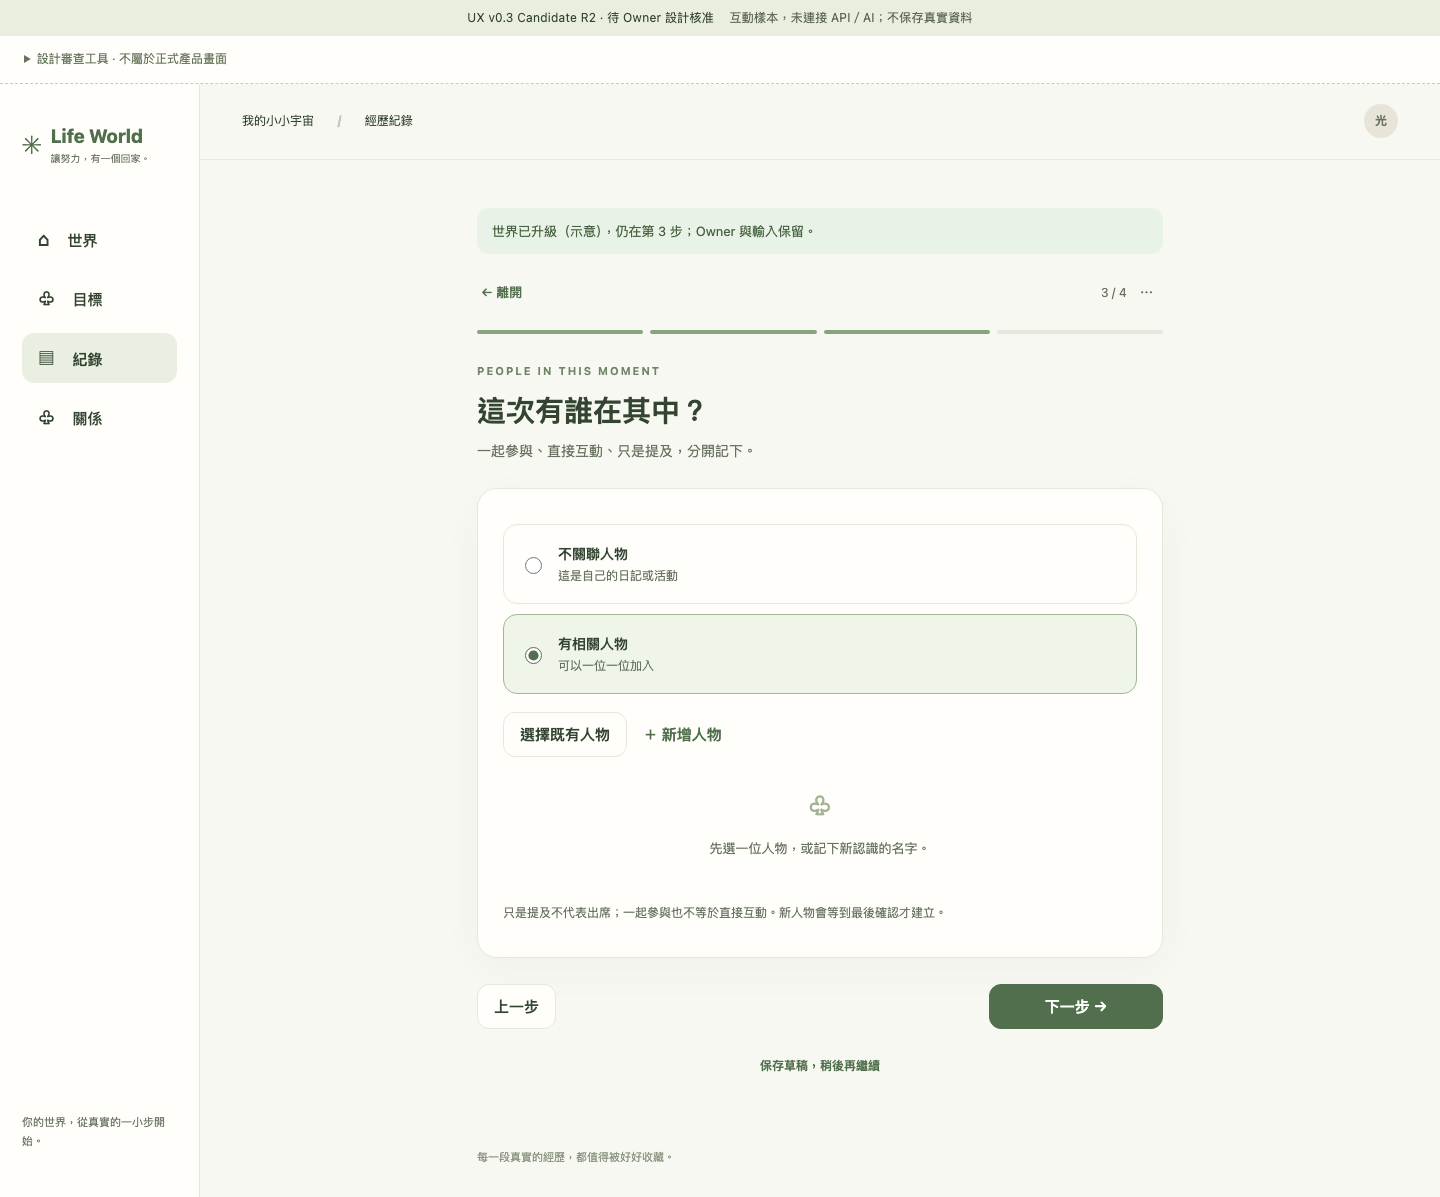
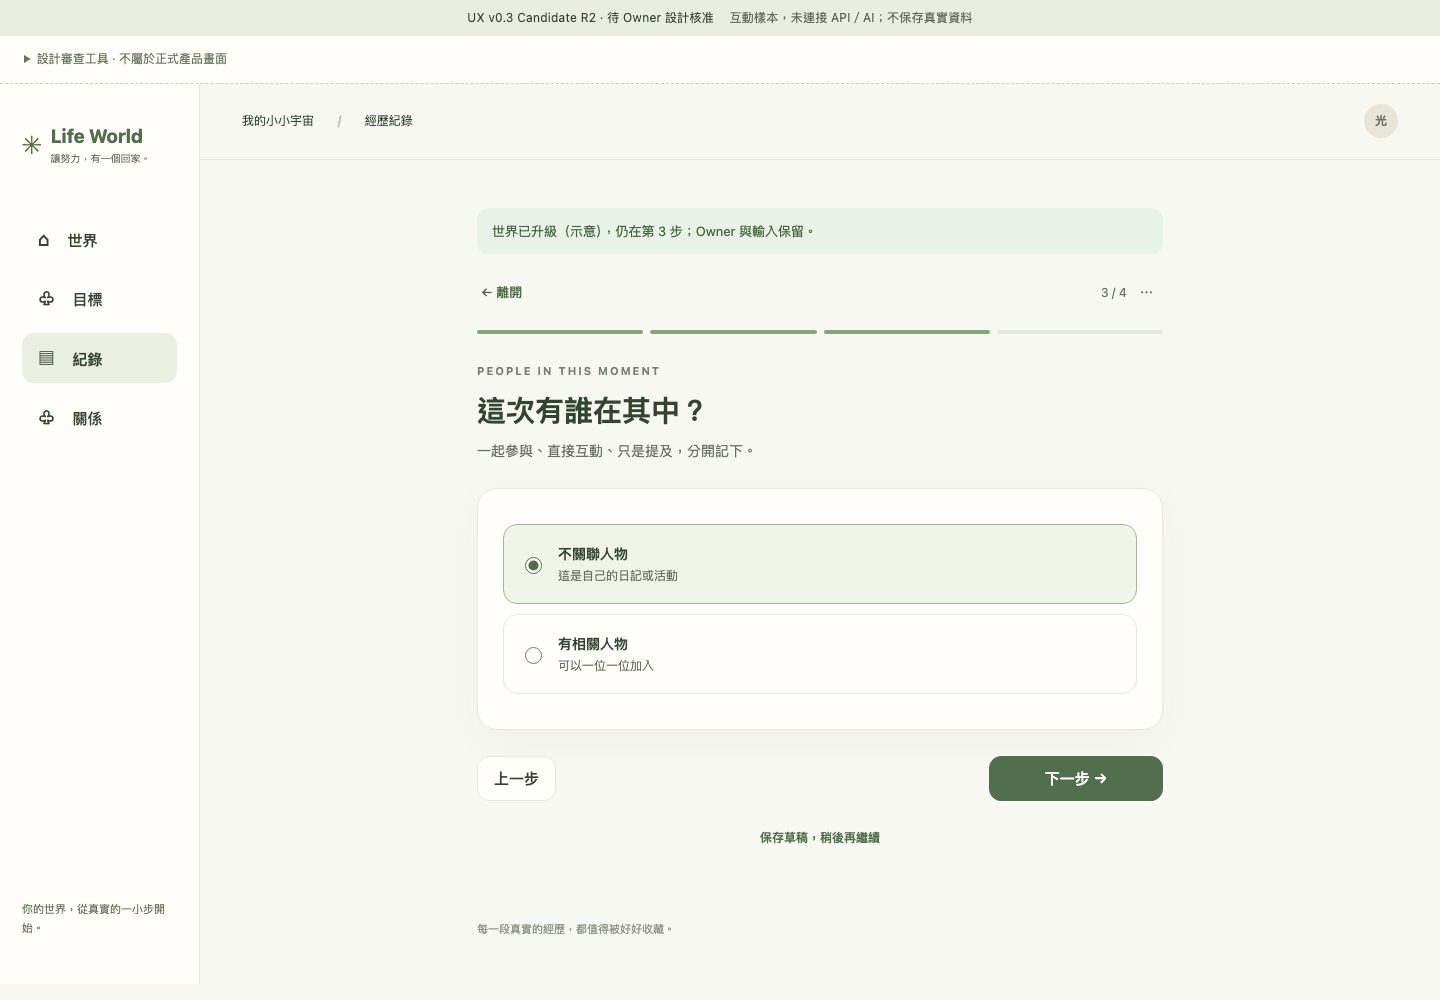
fix(ux-demo): preserve person choice through guest upgrade

diff --git a/docs/experience/ux-v03-candidate/demo.js b/docs/experience/ux-v03-candidate/demo.js
@@ -67,7 +67,7 @@ const UX=(()=>{
   if(scene==='deleteSuccess'){s.drafts=s.drafts.filter(d=>d.id!=='draft-one');s.deleted=true;}
   if(['guestAccount','guestStep3','upgradeConfirm','upgradeSuccess','oldWorldWarning','authFailure','authCancelled','authUnavailable','authConflict'].includes(scene)){s.identity='guest';s.step=scene==='guestAccount'?1:3;s.goal=true;s.qty=['0.5','1',''];}
   s.session=sessionFixture(s.identity,'world-one',scene!=='authUnavailable');
-  if(scene==='upgradeSuccess'){s.identity='registered';s.session=sessionFixture('registered');s.related=true;s.accountMessage='世界已升級（示意），仍在第 3 步；Owner 與輸入保留。';}
+  if(scene==='upgradeSuccess'){s.identity='registered';s.session=sessionFixture('registered');s.accountMessage='世界已升級（示意），仍在第 3 步；Owner 與輸入保留。';}
   if(scene==='authCancelled')s.accountMessage='Google 驗證已取消（示意），仍是原訪客世界，內容沒有變更。';
   if(['summaryChanged','summaryReviewed','manualUnrelated'].includes(scene)){
    s.step=4;s.summary='這是我親自整理並保留的摘要。';s.summaryEdited=true;s.related=true;s.people=[member('yi'),member('an','participant')];s.people[0].changes=[{...change(),accepted:true}];s.people[1].changes=[{id:'an-manual',label:'興趣與嗜好',old:'',value:'登山',origin:'使用者輸入 · 示意',quote:'小安加入我們，說他開始喜歡登山',supported:true,accepted:true}];
@@ -124,7 +124,8 @@ const UX=(()=>{
  }
  function deliverUpgradeFixture(){ // 只替換帳號與人物區；測試必須確認 Owner、路由、DOM 與編輯值不變。
   s.session=sessionFixture('registered',s.session.ownerId);s.identity=s.session.status;
-  s.accountMessage='世界已升級（設計示意），原 Owner 與輸入保留。';if(s.step===3)s.related=true;renderAccount();
+  // 身分升級只解鎖能力，不代替使用者選擇人物或變更經歷內容。
+  s.accountMessage='世界已升級（設計示意），原 Owner 與輸入保留。';renderAccount();
   const region=$('#people-region');if(region)region.innerHTML=peopleRegion();
   if(s.step===1){const fragment=document.createElement('div');fragment.innerHTML=step1();$('#main .input-tabs').innerHTML=fragment.querySelector('.input-tabs').innerHTML;$('#ai-region').innerHTML=fragment.querySelector('#ai-region').innerHTML;} // 保留原文 textarea 與素材容器，只解鎖能力區。
   if(!$('#account-feedback'))$('#main').insertAdjacentHTML('afterbegin','<div id="account-feedback" class="notice success" role="status"></div>');

diff --git a/docs/experience/ux-v03-candidate/tests/test_candidate.py b/docs/experience/ux-v03-candidate/tests/test_candidate.py
@@ -183,13 +183,15 @@ def test_guest_upgrade_unlocks_only_people_region(page):
     before=page.evaluate("""()=>{window.keptHeading=document.querySelector('#main h1');window.keptActions=document.querySelector('#main .actions');return UX.getState();}""")
     page.locator('#people-region [data-action=upgrade]').click()
     page.locator('[data-action=auth-demo]').click()
-    expect(page.locator('#people-region [data-action=pick]')).to_be_visible()
+    expect(page.locator('[name=people-mode][value=none]')).to_be_checked()
     after=page.evaluate('UX.getState()')
     assert after['step']==3 and after['session']['ownerId']==before['session']['ownerId']
     assert after['raw']==before['raw'] and after['qty']==before['qty'] and after['photo']==before['photo'] and after['audio']==before['audio']
     assert page.evaluate("window.keptHeading===document.querySelector('#main h1')&&window.keptActions===document.querySelector('#main .actions')")
+    assert after['related']==before['related'] and after['people']==before['people']
     assert after['session']['status']=='registered'
     assert page.locator('#account-region [data-action=upgrade]').count()==0
+    page.locator('[name=people-mode][value=some]').check()
     page.locator('#people-region [data-action=new-person]').click()
     page.locator('#new-name').fill('新認識的小林')
     page.locator('[data-action=add-person]').click()
@@ -212,6 +214,8 @@ def test_upgrade_failure_or_cancel_preserves_guest(page,outcome):
     else:expect(page.locator('#sheet .notice.error')).to_be_visible()
     after=page.evaluate('UX.getState()')
     assert after['session']==before['session'] and after['raw']==before['raw'] and after['qty']==before['qty'] and after['step']==3
+    for key in ['related','people','goal','drafts','draftId','summary','photo','audio']:
+        assert after[key]==before[key]
     assert page.locator('#people-region [data-action=pick]').count()==0
 
 
@@ -235,3 +239,23 @@ def test_unavailable_account_capabilities_have_no_auth_action(page):
     page.locator('[data-action=account-menu]').click()
     assert page.locator('#sheet [data-action=auth-demo]').count()==0
     expect(page.locator('#sheet')).to_contain_text('沒有可用的驗證入口')
+
+
+def test_guest_upgrade_without_people_can_continue(page):
+    """升級只解鎖能力，不能代替使用者選擇人物或修改世界內容。"""
+    scene(page,'guestStep3')
+    before=page.evaluate('UX.getState()')
+    page.locator('#people-region [data-action=upgrade]').click()
+    page.locator('[data-action=auth-demo]').click()
+    expect(page.locator('[name=people-mode][value=none]')).to_be_checked()
+    after=page.evaluate('UX.getState()')
+    for key in ['step','raw','qty','goal','related','people','drafts','draftId','summary','photo','audio']:
+        assert after[key]==before[key],key
+    assert after['session']['ownerId']==before['session']['ownerId']
+    folder=ROOT/'screenshots-upgrade-fix'/str(page.viewport_size['width'])
+    folder.mkdir(parents=True,exist_ok=True)
+    page.screenshot(path=str(folder/'upgrade-no-people.png'),full_page=True)
+    page.locator('[data-action=next]').click()
+    assert page.evaluate('UX.getState().step')==4
+    expect(page.locator('#main')).to_contain_text('沒有相關人物')
+    page.screenshot(path=str(folder/'upgrade-continue-step4.png'),full_page=True)

diff --git a/docs/experience/ux-v03-candidate/UPGRADE_STATE_FIX.md b/docs/experience/ux-v03-candidate/UPGRADE_STATE_FIX.md
@@ -1,0 +1,20 @@
+# R2 補修：第三步升級保留人物選擇
+
+狀態：Changes Requested／整體 UX 尚未核准。保留 R2 設計，只修 Candidate 狀態。
+
+- 根因：`deliverUpgradeFixture()` 強制 `related=true`，空人物列表阻擋下一步。
+- 修正：升級僅更新身分／能力及局部人物 UI；保持 related、people、Owner、原文、目標數量與草稿。升級成功展示情境也採相同預設。
+- 原先不關聯人物可直接前往第四步；主動選「有相關人物」後才要求新增或選擇人物。
+- 測試涵蓋 390／1440：升級成功直接繼續、主動新增人物、原 DOM 保留、取消／失敗／衝突資料不變。
+- 紅燈：新增直接繼續測試先實跑，2 failed（390／1440），原因為預設選擇被改動。
+
+## 畫面
+
+- [手機：升級後仍不關聯人物](screenshots-upgrade-fix/390/upgrade-no-people.png)
+- [手機：直接進入第四步](screenshots-upgrade-fix/390/upgrade-continue-step4.png)
+- [桌面：升級後仍不關聯人物](screenshots-upgrade-fix/1440/upgrade-no-people.png)
+- [桌面：直接進入第四步](screenshots-upgrade-fix/1440/upgrade-continue-step4.png)
+
+本輪沒有修改正式 API、PR #22 交易、資料模型或雲端。Gate B/C 保持未完成，真 Google／Alpha／實機驗收 NOT RUN。設計測試不代表 Owner 核准。
+
+本輪完整 Chromium 設計套件：**58 passed in 63.91s**，未跳過。指令：`python -m pytest docs/experience/ux-v03-candidate/tests -q --tb=short`。收據見 [GREEN](evidence/UPGRADE_STATE_GREEN.log) 與 [RED](evidence/UPGRADE_STATE_RED.log)。套件監控正式 API／外部服務請求皆為零，無 JS pageerror。

diff --git a/docs/experience/ux-v03-candidate/README.md b/docs/experience/ux-v03-candidate/README.md
@@ -1,3 +1,5 @@
+[R2 最後補修：第三步升級狀態及新截圖](UPGRADE_STATE_FIX.md)
+
 # Life World 經歷 UX v0.3 Candidate R2
 
 **NOT APPROVED；Owner 決定預設 Changes Requested。** 本輪是設計核准關卡，不是產品實作／資料庫／正式登入驗收。PR #24 保持 Draft。
